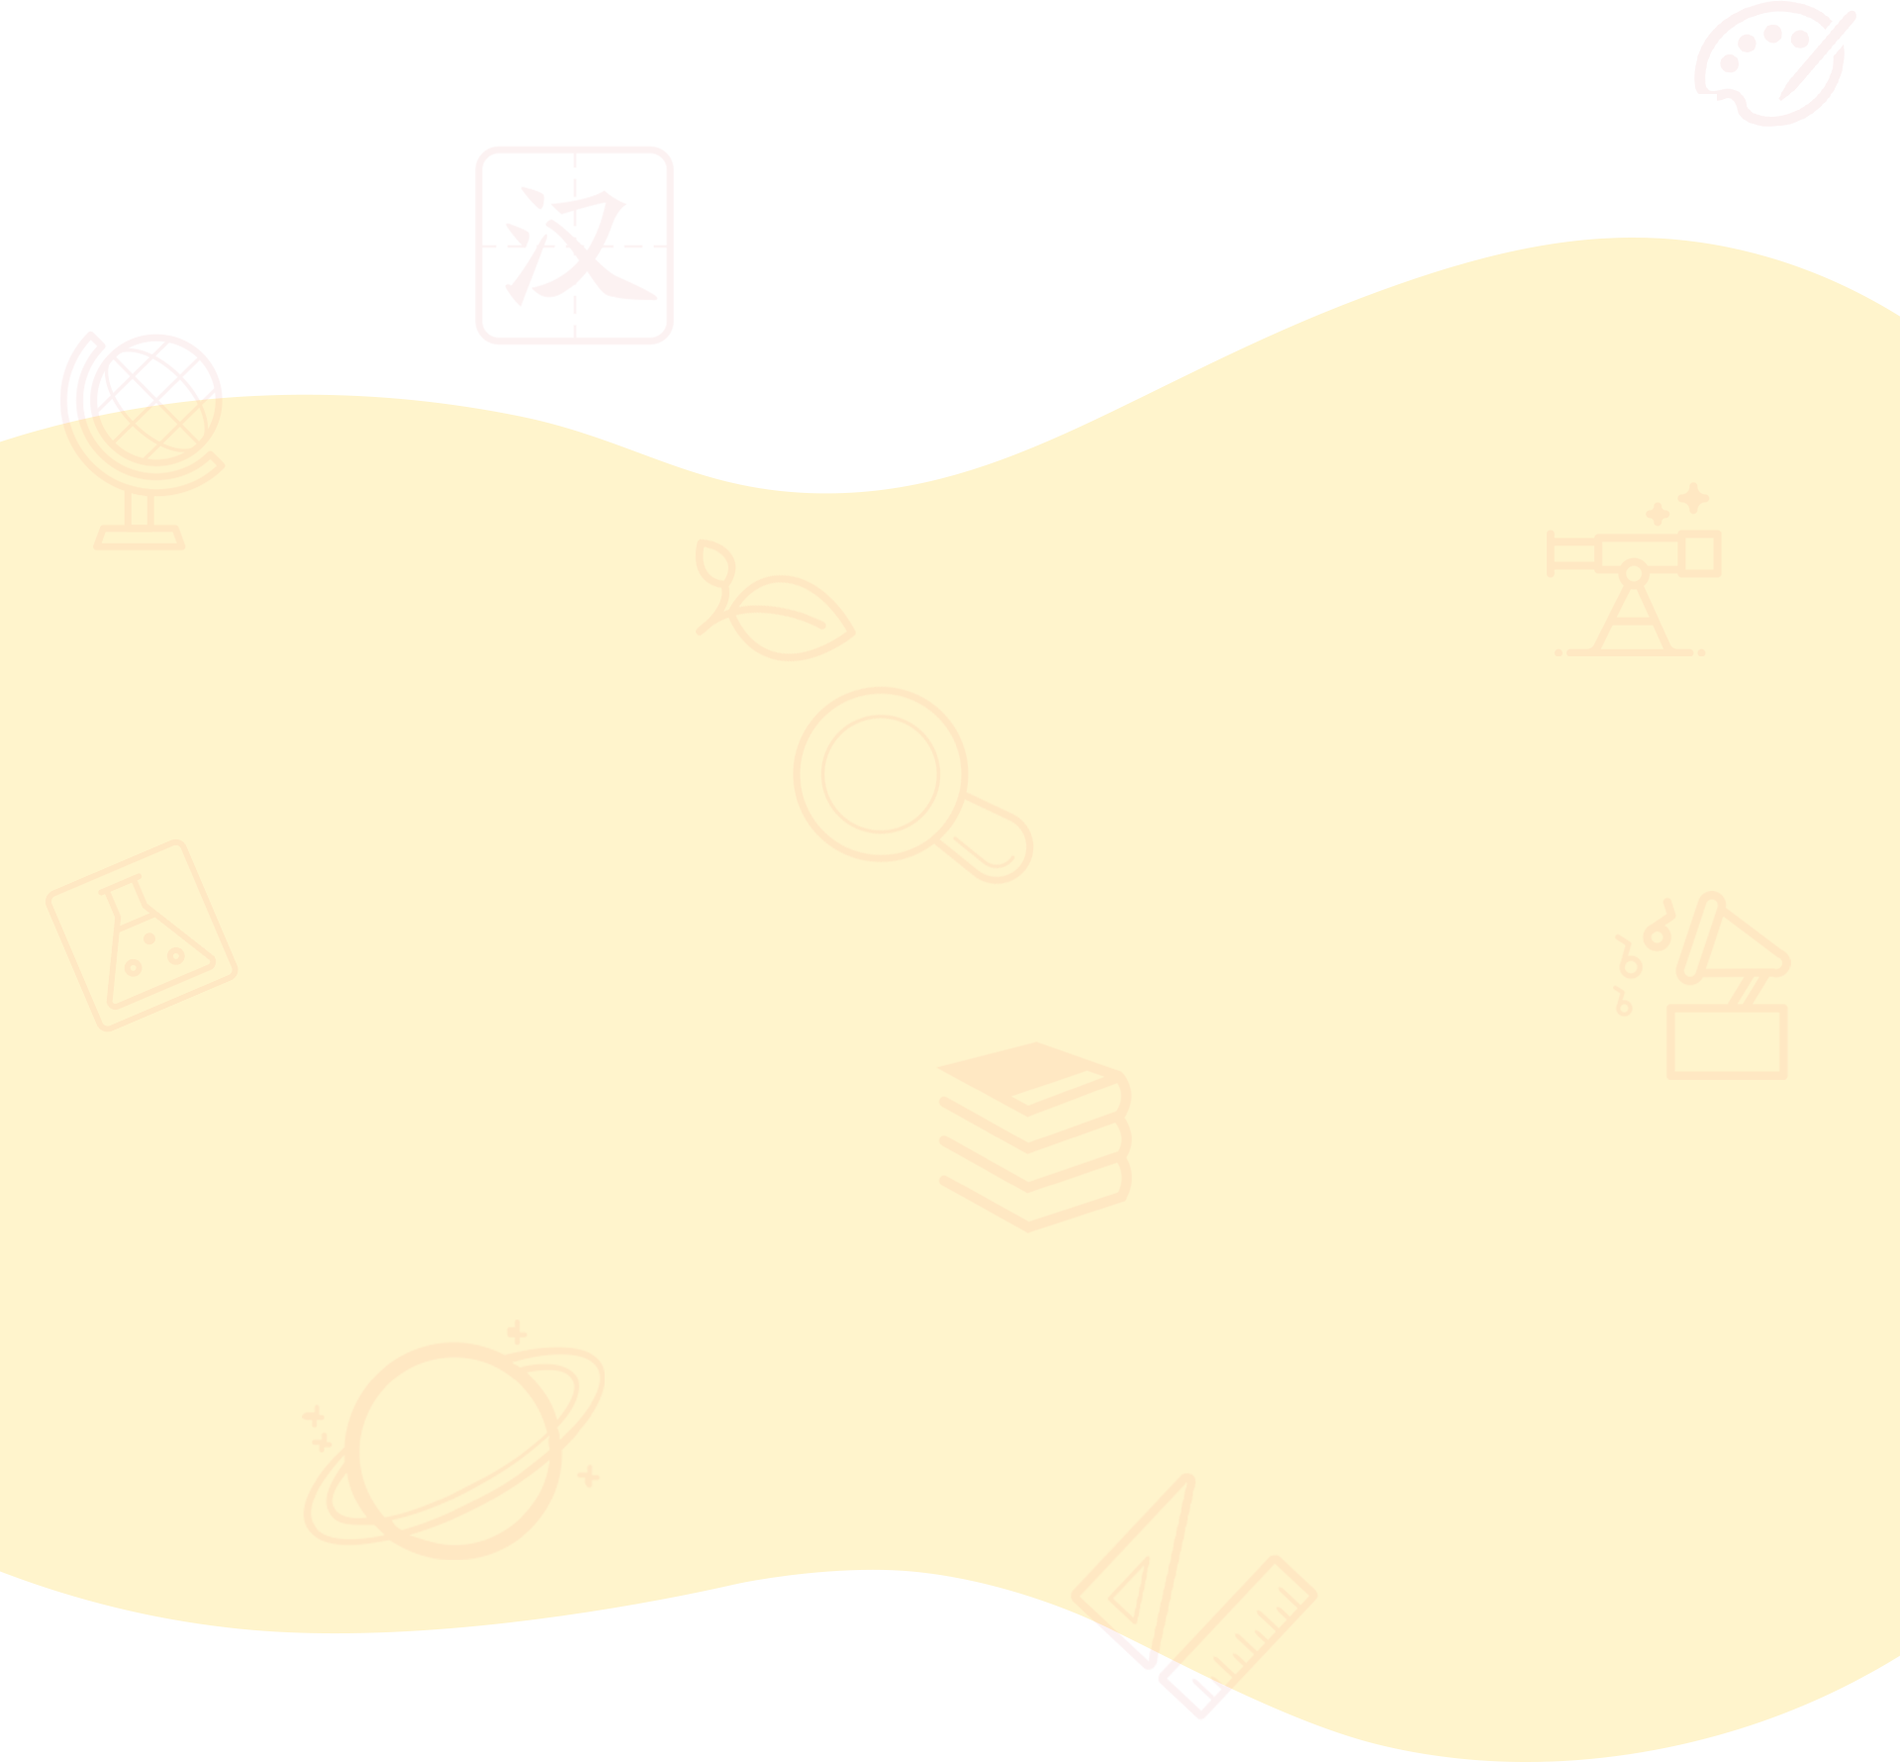
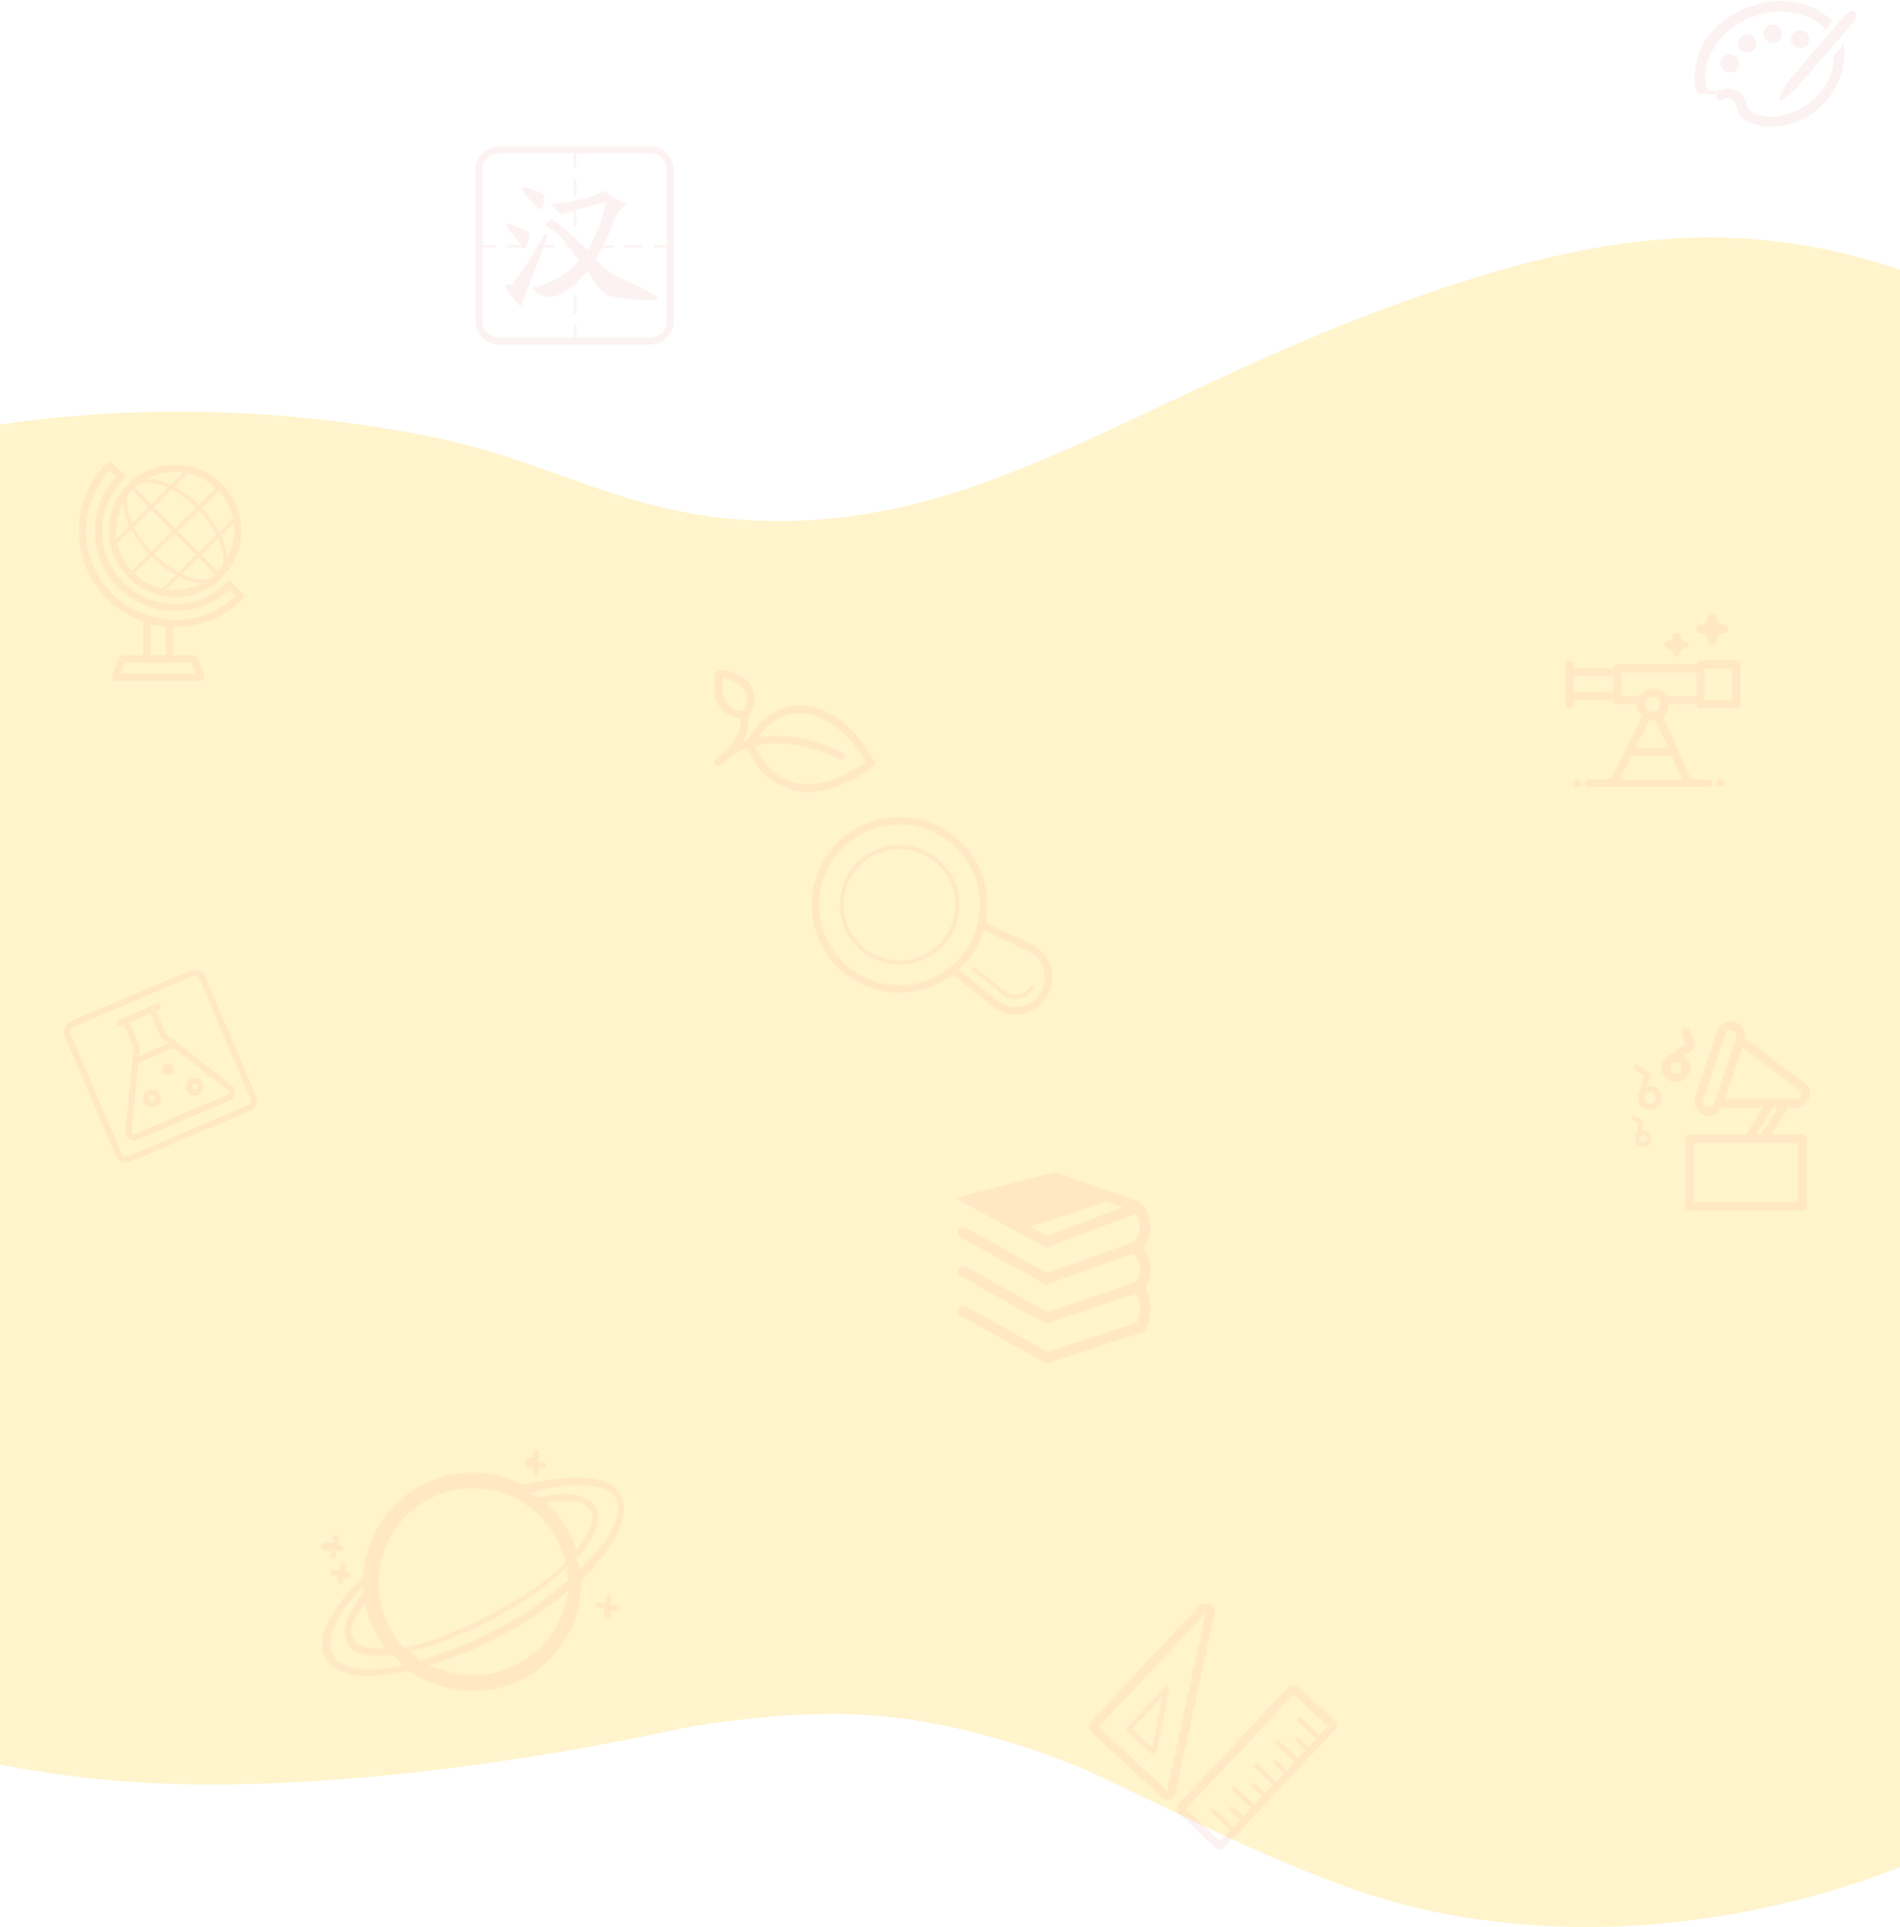
improvments

diff --git a/assets/css/landing.css b/assets/css/landing.css
@@ -40,21 +40,23 @@ div#bg-container {
 #slogan1 {
     color: white;
     margin: 5px;
-    font-size: 5vw;
+    font-size: 6.5vw;
     text-shadow: #444444 0.01em 0.01em 0.1em;
 }
 
 #slogan2 {
     color: white;
     margin: 5px;
-    font-size: 3vw;
+    font-size: 4vw;
     text-shadow: #444444 0.01em 0.01em 0.1em;
 }
 
 div#slogan {
+    position: relative;
+    left: 8vw;
+    bottom: 6vw;
     font-family: cu;
     text-align: left;
-    margin-left: 10vw;
     width: 100%;
 }
 
@@ -64,8 +66,6 @@ div#extra {
     font-family: zhun;
     width: 50vw;
     margin-left: auto;
-    margin-right: 7vw;
-    margin-top: 2vw;
     flex-direction: row;
     flex-wrap: wrap;
     display: flex;
@@ -73,9 +73,9 @@ div#extra {
 
 div#inquiry-form {
     position: relative;
-    right: 5vw;
+    right: 3vw;
     flex: 1;
-    border-radius: 2vw;
+    border-radius: 1.5vw;
     background: white;
     font-family: san;
     margin-top: 6vw;
@@ -96,9 +96,9 @@ div#container1 {
 
 div#three12 {
     background-image: url(../images/div1/3-12.png);
-    height: 4vw;
-    width: 30vw;
-    margin-left: 18vw;
+    height: 5vw;
+    width: 35vw;
+    margin-left: 22.5vw;
     background-size: contain;
     background-repeat: no-repeat;
     display: flex;
@@ -116,8 +116,10 @@ div#three12 {
 }
 
 #form-body {
+    margin-left: 2vw;
+    margin-right: 2vw;
     text-align: center;
-    width: 40vw;
+    width: 30vw;
 }
 
 .extra-title {
@@ -160,7 +162,7 @@ div#three12 {
 }
 
 #ben {
-    background-image: url('../images/div1/fen.png');
+    background-image: url('../images/div1/ben.png');
     background-size: cover;
     height: 10vw;
     width: 21vw;
@@ -178,34 +180,35 @@ div#three12 {
 
 .slogan31 {
     position: relative;
-    bottom: 0.39vw;
+    bottom: 0.8vw;
     right: 2vw;
-    font-size: 1.5vw;
+    font-size: 2vw;
     color: #b43938;
     flex: 1;
 }
 
 .slogan32 {
     position: relative;
-    bottom: 0.55vw;
-    right: 8.1vw;
-    font-size: 1.5vw;
+    bottom: 0.9vw;
+    right: 8.5vw;
+    font-size: 2vw;
     color: white;
     flex: 2;
 }
 
 .goodies-text {
     width: 8vw;
-    padding: 0 0 1.5vw 1vw;
+    padding: 1vw 0 1.5vw 2vw;
     font-size: 2vw;
 }
 
 .goodies-icon-text {
+    position: relative;
+    bottom: 1vw;
     width: 5vw;
-    height: 1.5vw;
     align-self: flex-end;
     padding: 0 0 0 2.5vw;
-    font-size: 2vw;
+    font-size: 1.5vw;
 }
 
 .inputbox {
@@ -220,12 +223,14 @@ div#three12 {
     background-color: #f7f5f5;
     height: 3vw;
     border: 0.1vw solid #ccc;
-    text-indent: 2vw;
+    text-indent: 1vw;
 }
 
 div#submit-button input {
+    position: relative;
+    top: 1vw;
     border-radius: 8vw;
-    background-color: red;
+    background-color: #ee3b1e;
     color: white;
     width: 20vw;
     height: 4vw;
@@ -243,7 +248,7 @@ div#submit-button input {
 }
 
 #comp-logo {
-    height: 6vw;
+    height: 7.7vw;
     margin-bottom: -10px;
 }
 
@@ -259,6 +264,7 @@ div#submit-button input {
     font-size: 1.2vw;
     display: inline;
     bottom: 3vw;
+    color: #656565;
 }
 
 #guard {
@@ -273,12 +279,12 @@ div#submit-button input {
     margin-top: 10px;
     display: none;
     position: absolute;
-    width: 300px;
+    width: 200px;
     z-index: 999;
     border: 1px solid #e5e5e5;
     border-radius: 5px;
     left: 10px;
-    top: 50px;
+    top: 16vw;
     text-align: left;
     font-family: "SourceHanSansCN-Normal", "Source Han Sans CN", sans-serif, Helvetica, "Helvetica Neue";
 }
@@ -308,7 +314,7 @@ div#submit-button input {
     width: 8vw;
     height: 3vw;
     position: absolute;
-    left: 4.5vw;
+    left: 2vw;
     z-index: 999;
     background: none;
     border: none;
@@ -330,7 +336,7 @@ div#submit-button input {
     background-color: #f7f5f5;
     height: 3.4vw;
     border: 0.1vw solid #ccc;
-    text-indent: 7vw;
+    text-indent: 5.5vw;
 }
 
 .div-box i {
@@ -341,7 +347,7 @@ div#submit-button input {
     background-position: center;
     background-size: cover;
     top: 15.8vw;
-    left: 9.5vw;
+    left: 6.5vw;
 }
 
 input[type="text"] {
@@ -786,7 +792,7 @@ li+li {
 .narrative {
     margin: 0 5% 5% 5%;
     font-family: zhun;
-    font-size: 2vw;
+    font-size: 1.6vw;
     color: #444444;
     line-height: 170%;
 }
@@ -1169,7 +1175,7 @@ div#bg-container-6 {
     margin-left: 12vw;
     margin-right: auto;
     font-family: zhun;
-    font-size: 2vw;
+    font-size: 1.6vw;
     color: #444444;
     line-height: 170%;
     text-align: left;

diff --git a/landing.html b/landing.html
@@ -519,7 +519,7 @@
       </div>
     </div>
     <div id="extra">
-      <h3 class="extra-title">领取后您将获得以下福利:</h3>
+      <h3 class="extra-title">领取后您将获得以下福利</h3>
       <div class="goodies" id="jie">
         <p class="goodies-icon-text">1节</p>
         <p class="goodies-text">1v1真人直播课</p>

diff --git a/en/assets/css/landing.css b/en/assets/css/landing.css
@@ -1185,7 +1185,7 @@ sec7
 */
 
 div#bg-container-7 {
-    background-image: url(../images/div7/bg2.png);
+    background-image: url(../images/div7/bg.png);
     background-size: cover;
     justify-items: center;
     justify-content: center;
